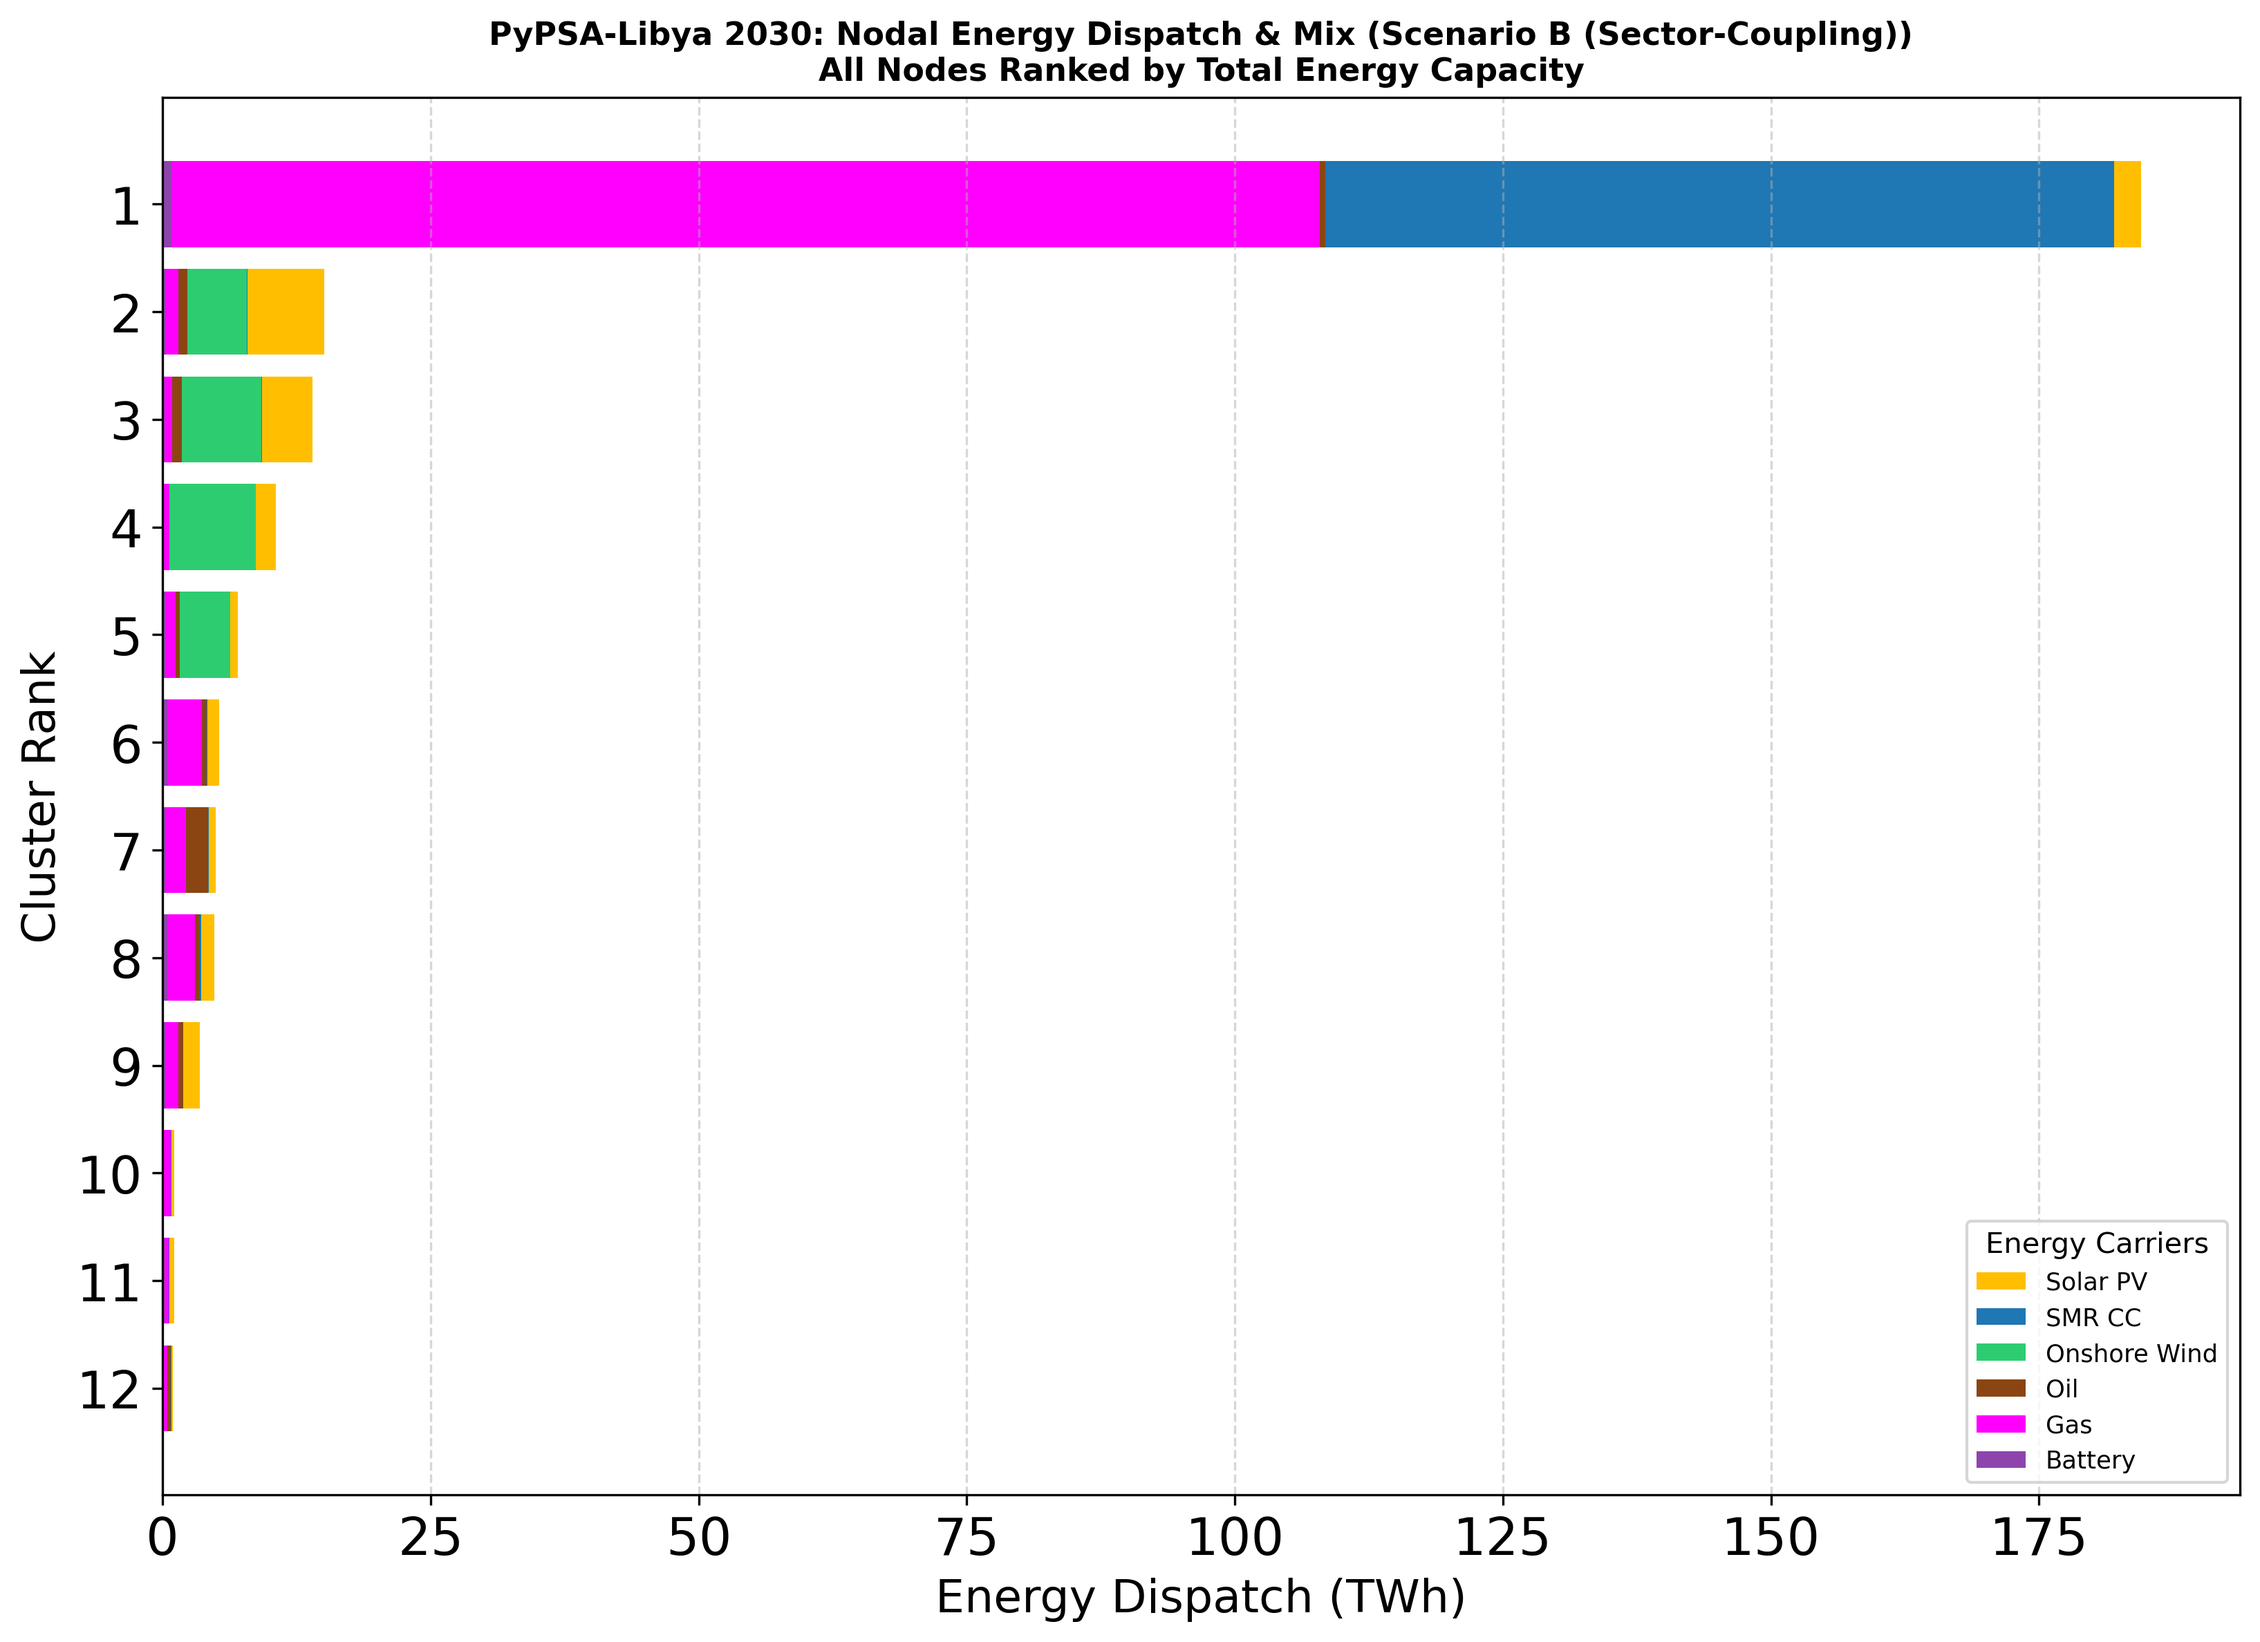
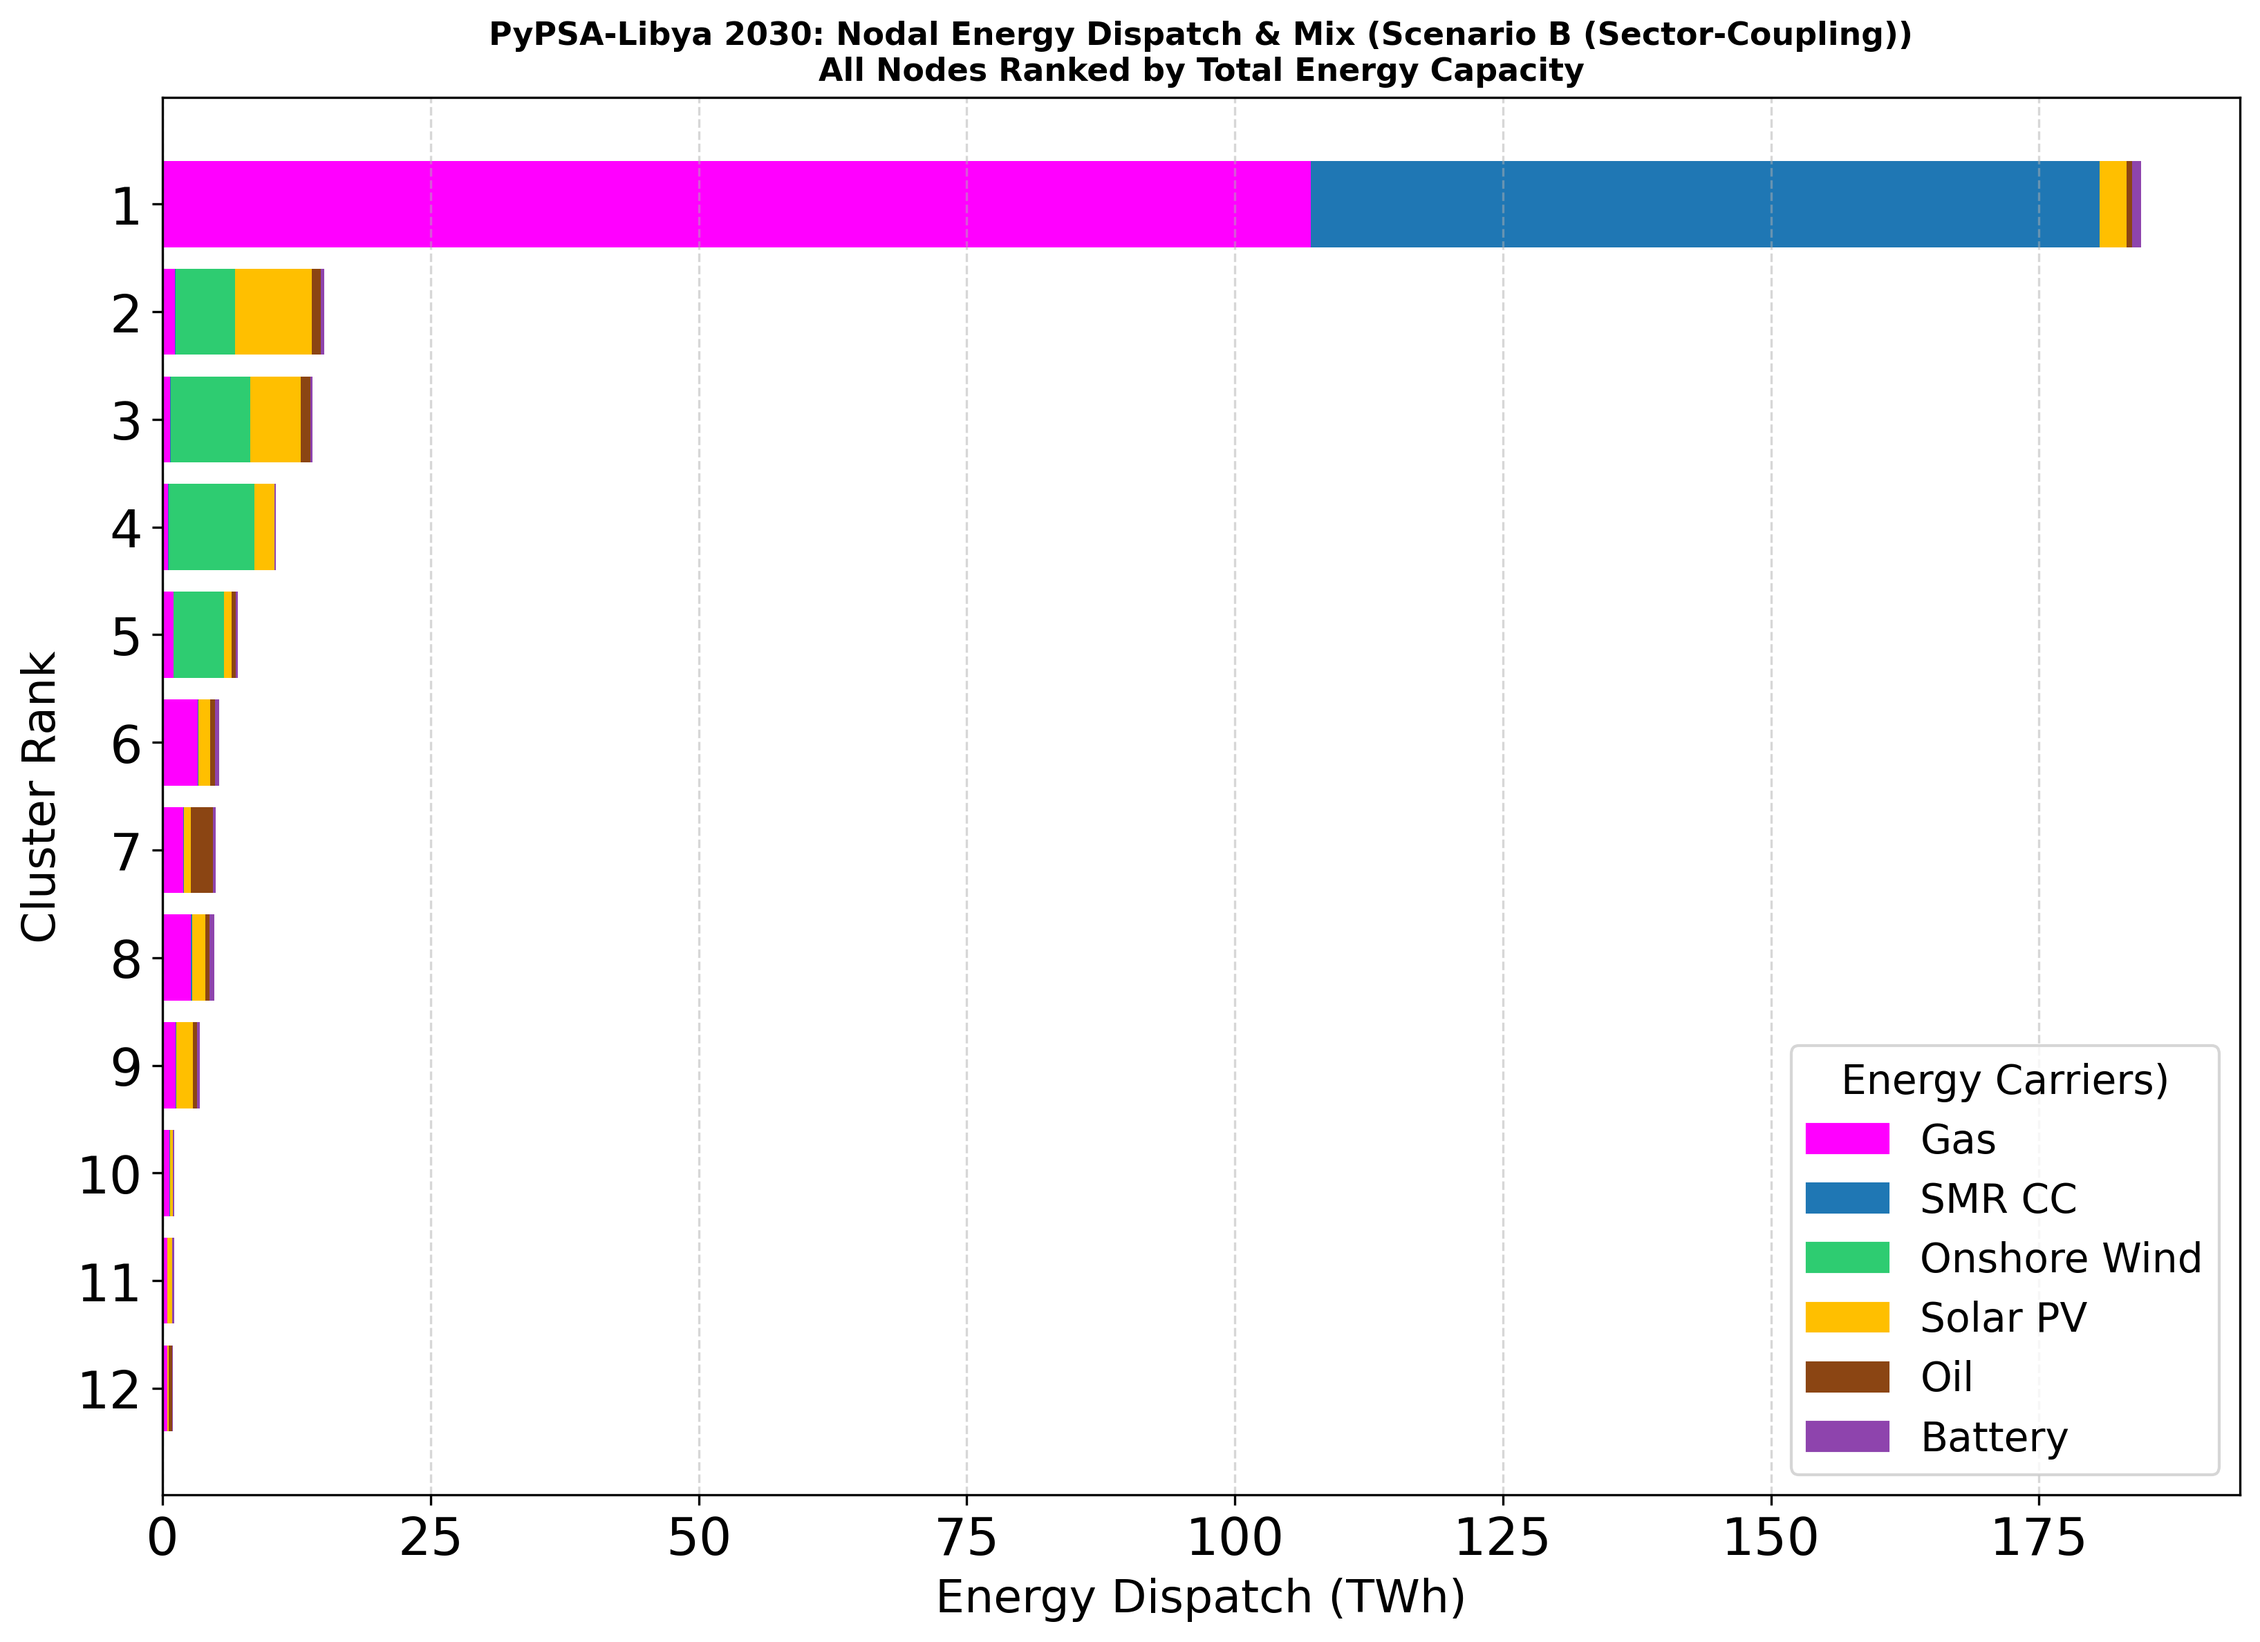
Add files via upload

diff --git a/viz_outputs/Validate_Energy_Conservation_All_Carriers/validate_all_carriers_energy_conservation.py b/viz_outputs/Validate_Energy_Conservation_All_Carriers/validate_all_carriers_energy_conservation.py
@@ -86,10 +86,12 @@ MAP_PIXEL_OFFSET_Y = 7                # Vertical pixel shift above nodes (used i
 # Map Figure Axis Settings
 MAP_AXIS_LABEL_FONT_SIZE = 14         # Font size for map axis titles (Longitude / Latitude)
 MAP_AXIS_TICK_FONT_SIZE = 10          # Font size for map tick values along the axes
+MAP_LEGEND_FONT_SIZE = 14             # Font size for the map legend text
 
 # Bar Chart Figure Axis Settings
 BAR_LABEL_FONT_SIZE = 16              # Font size for bar chart axis titles (Node Rank / Energy Dispatch)
 BAR_TICK_FONT_SIZE = 18               # Font size for bar chart tick marks and values
+BAR_LEGEND_FONT_SIZE = 14             # Font size for the bar chart legend text (increased for better readability)
 
 
 SCENARIOS = [
@@ -990,14 +992,31 @@ if __name__ == "__main__":
             energy_twh = energy_mwh / 1e6
             pct = rounded_percentages.get(carrier_key, 0)
             return f"{name}: {energy_twh:,.2f} TWh ({pct}%)"
+        
+
+        # Sort carriers from highest to lowest total energy share
+        sorted_present_carriers = sorted(
+            present_carriers, 
+            key=lambda c: nodal_mix[c].sum() if not nodal_mix.empty and c in nodal_mix.columns else 0, 
+            reverse=True
+        )
 
         legend_handles = [
             mpatches.Patch(color=CHART_COLORS.get(c, "#7f7f7f"), label=format_legend_label(c))
-            for c in sorted(present_carriers)
+            for c in sorted_present_carriers
         ]
+        
         if legend_handles:
-            ax.legend(handles=legend_handles, loc="lower left", fontsize=8.5, title="Energy Carriers")
-
+            ax.legend(
+                handles=legend_handles, 
+                loc="lower left", 
+                fontsize=MAP_LEGEND_FONT_SIZE,        
+                title_fontsize=MAP_LEGEND_FONT_SIZE,  
+                title="Energy Carriers (Annual TWh & Share)",
+                framealpha=1.0,   
+                facecolor="white"
+            )
+                
         ax.set_title(
             f"PyPSA-Libya 2030: Nodal Dispatch and Energy Mix ({sc['name']})\n"
             "Pie Size = Proportional Node Energy; Slices = Carriers",
@@ -1040,10 +1059,12 @@ if __name__ == "__main__":
             
             # --- UNIFIED FIGSIZE TO MATCH THE MAP FIGURE (11x8) ---
             
+            # Use the identical sorted carriers list for unified ordering
+            active_bar_carriers = sorted_present_carriers
+
             fig_bar, ax_bar = plt.subplots(figsize=(11, 8))
             
             bottom_val = np.zeros(len(df_bar))
-            active_bar_carriers = sorted(list(present_carriers))
 
             for carrier in active_bar_carriers:
                 if carrier not in df_bar.columns:
@@ -1061,16 +1082,23 @@ if __name__ == "__main__":
             )
             ax_bar.set_xlabel("Energy Dispatch (TWh)", fontsize=BAR_LABEL_FONT_SIZE)
             ax_bar.set_ylabel("Cluster Rank", fontsize=BAR_LABEL_FONT_SIZE)
-            
-            # Increase and make tick label sizes adjustable
             ax_bar.tick_params(axis='both', which='major', labelsize=BAR_TICK_FONT_SIZE)
-            
             ax_bar.grid(axis="x", linestyle="--", alpha=0.5)
 
-            handles, labels = ax_bar.get_legend_handles_labels()
-            if handles:
-                ax_bar.legend(handles[::-1], labels[::-1], loc="lower right", fontsize=8.5, title="Energy Carriers")
+            # Match handles to the sorted list and fix the title typo
+            handles = [mpatches.Patch(color=CHART_COLORS.get(c, "#7f7f7f"), label=c) for c in active_bar_carriers if c in df_bar.columns]
+            labels = [c for c in active_bar_carriers if c in df_bar.columns]
 
+            if handles:
+                ax_bar.legend(
+                    handles, 
+                    labels, 
+                    loc="lower right", 
+                    fontsize=BAR_LEGEND_FONT_SIZE,        
+                    title_fontsize=BAR_LEGEND_FONT_SIZE,  
+                    title="Energy Carriers)" # Fixed closing parenthesis typo here too
+                )
+                
             fig_bar.tight_layout()
             bar_dir = os.path.dirname(bar_out)
             if bar_dir:
